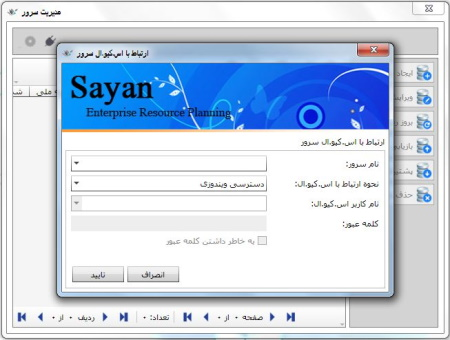
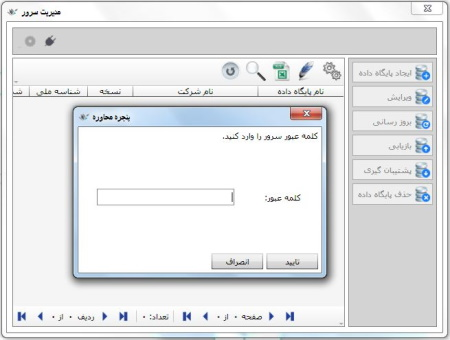
اصلاح عکس ها از نظر نام

diff --git a/Help/fa-IR/_01_قابلیت های عمومی نرم افزار/_01_ایجاد ارتباط/Index.html b/Help/fa-IR/_01_قابلیت های عمومی نرم افزار/_01_ایجاد ارتباط/Index.html
@@ -36,7 +36,7 @@
 			در این قسمت چهار فیلد وجود دارد
 			که اطلاعات آن به شرح زیر تکمیل می شود
 		</p>
-		<img class="LargPic" src="l3.jpg" />
+		<img class="LargPic" src="n1.jpg" />
 		<br />
 		<b>نام سرور </b>
 		<p>
@@ -75,11 +75,11 @@
 			نام کاربر مورد نظر را که در زمان نصب برنامه ثبت کرده اید انتخاب کنید و کلمه عبور مربوط به آن کاربر را وارد
 			نمایید. فرم تکمیل شده به شکل زیر می باشد:
 		</p>
-		<img class="LargPic" src="l4.jpg" />
+		<img class="LargPic" src="n2.jpg" />
 		<p>
 			در شکل بالا پس از بررسی موارد گفته شده، با کلیک روی گزینه «تایید» صفحه ی زیر باز می شود
 		</p>
-		<img class="LargPic" src="l5.jpg" />
+		<img class="LargPic" src="n3.jpg" />
 		<br>
 		در تصویر بالا بعد از وارد کردن کلمه ی عبور وارد صفحه ی مدیریت سرور می شوید
 
